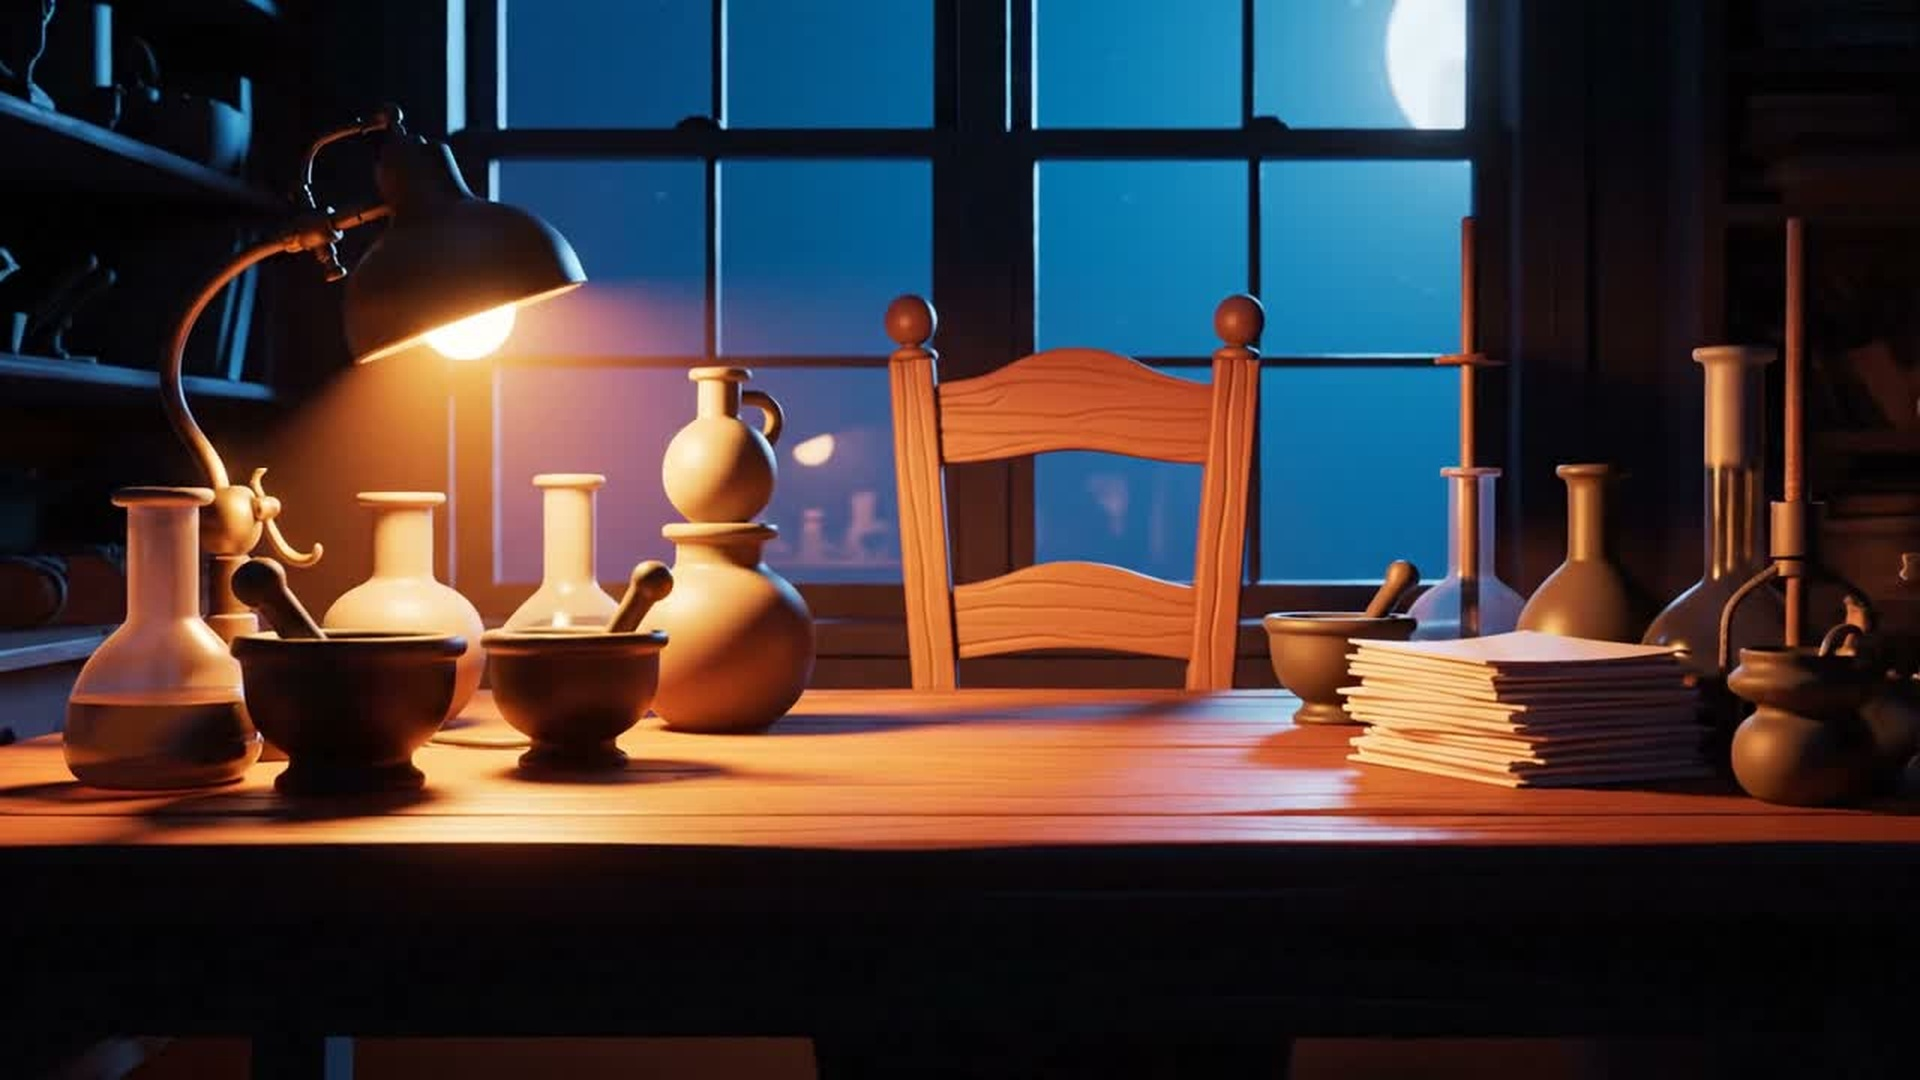
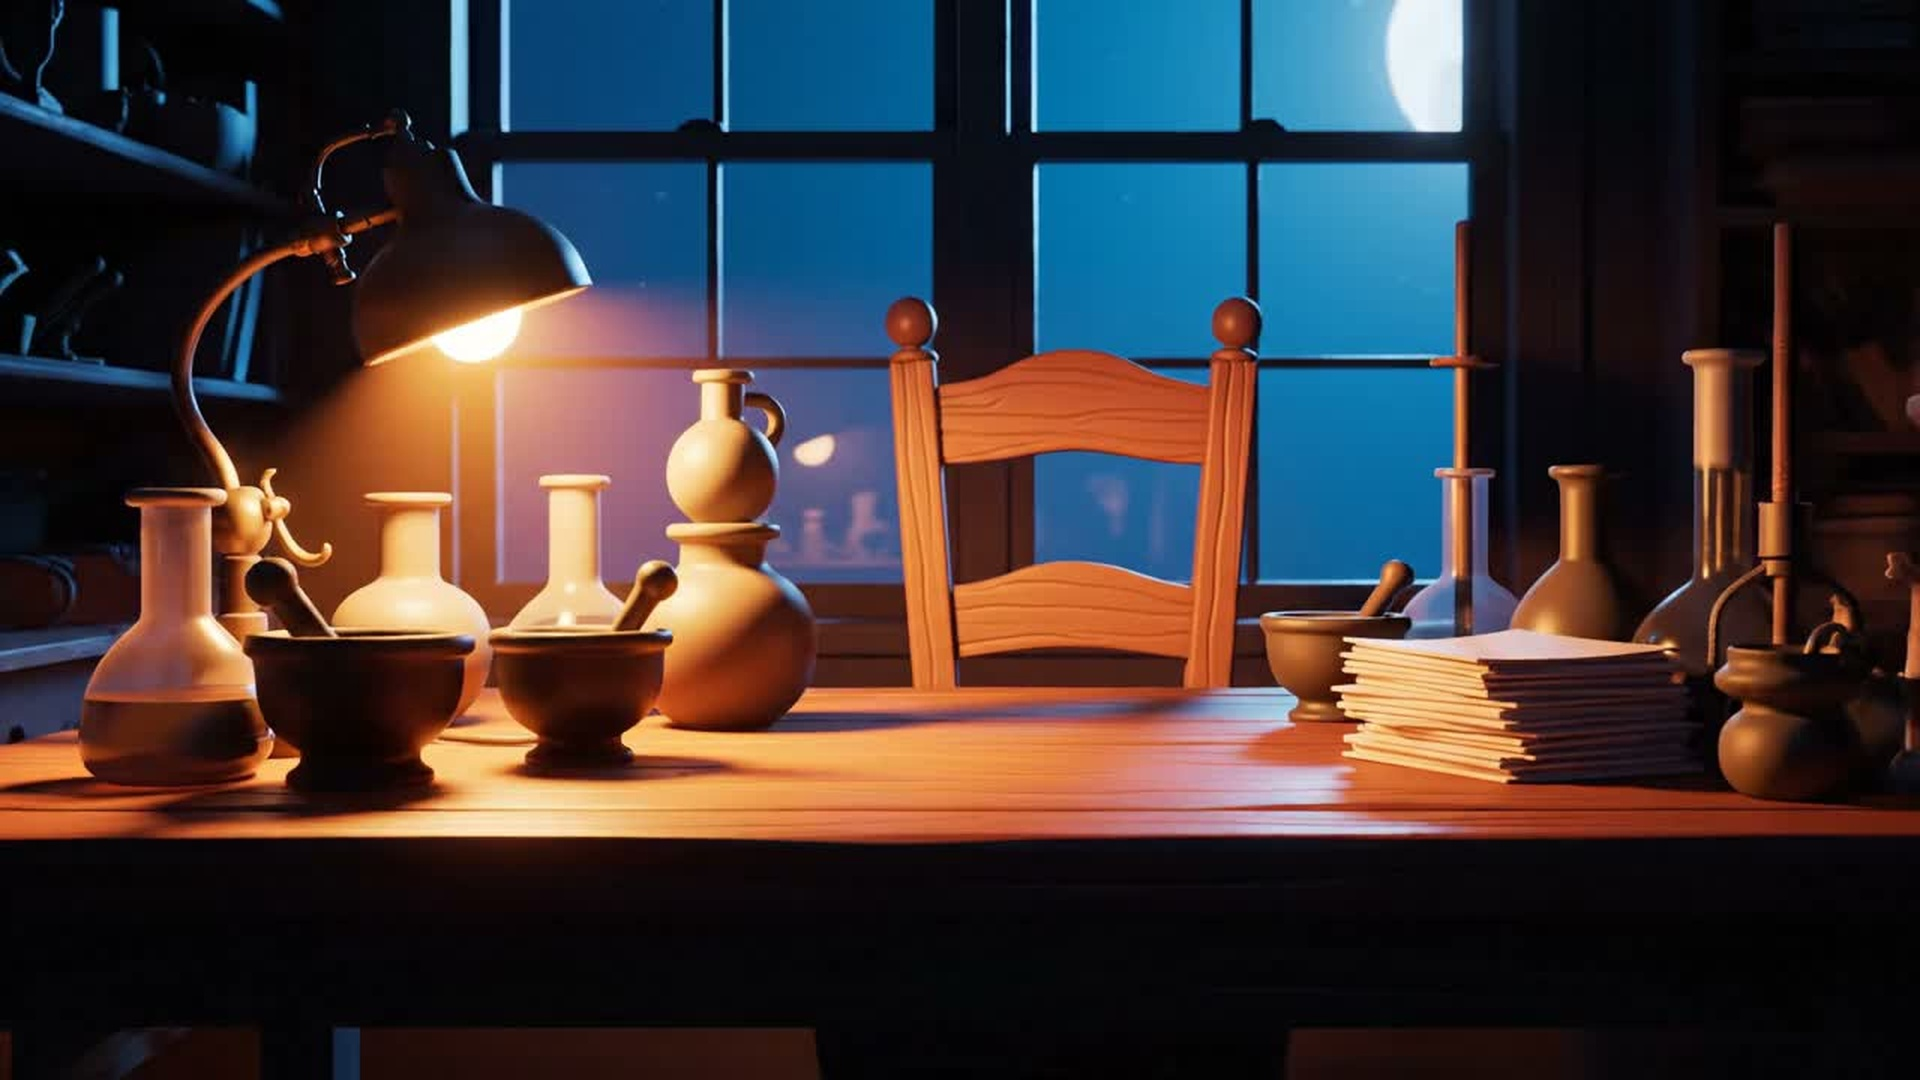
HOS 002 Part 04: 09b try9B self-reject drip; try9C t=0.00 start
try9B still had molten bead under shade (flats clear). Switch active start to
v01 empty-chair moon t=0.00 (lowest underside bright in source).

diff --git a/02_Video-Projects/002_How-Did-We-Discover-The-Periodic-Table/07_Edit-Project/_submit_part04_09b_try9C_cdp.py b/02_Video-Projects/002_How-Did-We-Discover-The-Periodic-Table/07_Edit-Project/_submit_part04_09b_try9C_cdp.py
@@ -1,0 +1,160 @@
+#!/usr/bin/env python3
+"""Dedicated 09b_risk_hold try9C submit on live Mini CDP — cardless moon DNA, CLEAN LAMP (no lava drip)."""
+from __future__ import annotations
+
+import hashlib
+import json
+import os
+import re
+import sys
+import time
+from pathlib import Path
+
+from playwright.sync_api import sync_playwright
+
+REPO = Path(__file__).resolve().parents[3]
+sys.path.insert(0, str(REPO / "04_Audio" / "tools"))
+import orbit_flow_veo_ui as flow
+
+flow.FLOW_HOME = os.environ.get("ORBIT_FLOW_HOME", "https://flow.google.com/")
+CDP = os.environ.get("ORBIT_FLOW_CDP", "http://127.0.0.1:9222")
+PROJ = Path(__file__).resolve().parents[1]
+START = PROJ / "04_Generated-Clips/part04/refs/v20_start_frames/09b_risk_hold_start_v20.jpg"
+LOCK = PROJ / "04_Generated-Clips/part04/refs/v20_start_frames/09b_risk_hold_start_v20_try9C_cardless_t0.jpg"
+KEEP_TRY8 = PROJ / "04_Generated-Clips/part04/refs/v20_start_frames/09b_risk_hold_start_v20_try8_KEEP_cf182dc.jpg"
[1 lines of base64/hex data omitted]
+OUT = PROJ / "07_Edit-Project/_qa_part04_v20_flow/submit_09b_risk_hold_try9C.json"
+MODEL = os.environ.get("ORBIT_FLOW_VEO_MODEL") or "Veo 3.1 - Fast"
+REQUIRED_EMAIL = "benoats@googlemail.com"
+
+_mint = (Path(__file__).resolve().parent / "_mint_part04_flow_v20.py").read_text()
+_m = re.search(r"(STYLE = [\s\S]*?PROMPTS = \{[\s\S]*?\n\})\n\n\ndef ", _mint)
+if not _m:
+    # fallback: PROMPTS may be named differently in some revisions
+    _m = re.search(r"(STYLE = [\s\S]*?PROMPTS\s*=\s*\{[\s\S]*?\n\})\n\n\ndef ", _mint)
+if not _m:
+    raise SystemExit("could not extract PROMPTS from mint")
+_ns: dict = {}
+exec(_m.group(1), _ns)
+PROMPT = _ns["PROMPTS"]["09b_risk_hold"]
+
+
+def sha(p: Path) -> str:
+    return hashlib.sha256(p.read_bytes()).hexdigest()
+
+
+def assert_auth(page) -> dict:
+    html = page.content()
+    try:
+        body = page.inner_text("body")
+    except Exception:
+        body = ""
+    blob = (html + "\n" + body).lower()
+    if any(
+        x in blob
+        for x in (
+            "passkey",
+            "verifying it's you",
+            "verifying it’s you",
+            "use your passkey",
+        )
+    ):
+        raise SystemExit("STOP_TO_COS BLOCKED_AUTH: passkey wall")
+    if REQUIRED_EMAIL.lower() not in blob and "benoats@googlemail.com" not in blob:
+        # soft: Flow home sometimes hides email until account chip opens
+        print("WARN: email not visible in DOM yet; continuing if ULTRA present", flush=True)
+    if "ultra" not in blob:
+        raise SystemExit("STOP_TO_COS BLOCKED_AUTH: ULTRA badge missing")
+    return {"ultra": True, "email_hint": REQUIRED_EMAIL in blob}
+
+
+def main() -> None:
+    if not START.exists():
+        raise SystemExit(f"missing {START}")
+    s = sha(START)
+    if s == FORBIDDEN_FLAT:
+        raise SystemExit("ABORT: active start is try6/7 flat DNA")
+    if KEEP_TRY8.exists() and s == sha(KEEP_TRY8):
+        raise SystemExit(
+            "ABORT: active start still try8 KEEP cf182dc (drip baked under shade) — need try9 nodrip lock"
+        )
+    if LOCK.exists() and s != sha(LOCK):
+        raise SystemExit("ABORT: active start != try9C t=0.00 cardless nodrip lock")
+    bans = ("lava drip", "molten teardrop", "molten bead", "fire spit", "CARDLESS")
+    missing = [b for b in bans if b.lower() not in PROMPT.lower()]
+    if missing:
+        raise SystemExit(f"ABORT: prompt missing bans {missing}")
+    if "Empty Chairs" not in PROMPT and "Empty chairs" not in PROMPT:
+        raise SystemExit("ABORT: prompt must allow soft Empty Chairs panel")
+
+    with sync_playwright() as p:
+        browser = p.chromium.connect_over_cdp(CDP)
+        ctx = browser.contexts[0]
+        page = ctx.new_page()
+        page.goto(flow.FLOW_HOME, wait_until="domcontentloaded", timeout=180000)
+        time.sleep(3)
+        for name in ("Agree", "Got it", "Accept all"):
+            try:
+                page.get_by_role("button", name=name).first.click(timeout=1500)
+            except Exception:
+                pass
+        auth = assert_auth(page)
+
+        tmp = Path("/tmp/hos_v20_09b_try9C_stub.mp4")
+        if tmp.exists():
+            tmp.unlink()
+        info: dict = {}
+        try:
+            info = flow.generate_clip(
+                page,
+                PROMPT,
+                tmp,
+                model=MODEL,
+                start_frame=START,
+                timeout_s=70,
+                attempts=1,
+                scenery_only=True,
+            )
+        except Exception as e:
+            info = {
+                "error": str(e),
+                "project_url": getattr(page, "_orbit_flow_project_url", None) or (page.url or ""),
+            }
+            print(f"submit note: {e}", flush=True)
+
+        project_url = (
+            info.get("project_url")
+            or info.get("url")
+            or getattr(page, "_orbit_flow_project_url", None)
+            or page.url
+            or ""
+        )
+        project_url = str(project_url).split("?")[0].rstrip("/")
+        out = {
+            "plate": "09b_risk_hold",
+            "try": "9B",
+            "project_url": project_url,
+            "info": {k: v for k, v in info.items() if k != "path"},
+            "start": str(START),
+            "start_sha256": s,
+            "start_dna": "try9C alternate cardless KEEP from v01 empty-chair moon t=0.00 (nodrip); NOT try8 KEEP cf182dc drip-baked; NOT flat 2a651abc",
+            "model": MODEL,
+            "when": time.strftime("%Y-%m-%dT%H:%M:%S"),
+            "auth": auth,
+            "prompt_has_lava_drip_ban": True,
+            "prompt_has_molten_teardrop_ban": True,
+            "prompt_has_fire_spit_ban": True,
+            "prompt_has_cardless": True,
+            "prompt_allows_soft_empty_chairs": True,
+            "parent_try8_uat": "HARD FAIL CLEAN LIGHT — lamp lava drip / molten teardrop under shade continuous ~t1–t8; flats CLEARED",
+            "paint": "banned",
+        }
+        OUT.parent.mkdir(parents=True, exist_ok=True)
+        OUT.write_text(json.dumps(out, indent=2) + "\n")
+        print(json.dumps(out, indent=2), flush=True)
+        if "/project/" not in project_url:
+            raise SystemExit("no project url after submit")
+
+
+if __name__ == "__main__":
+    main()
